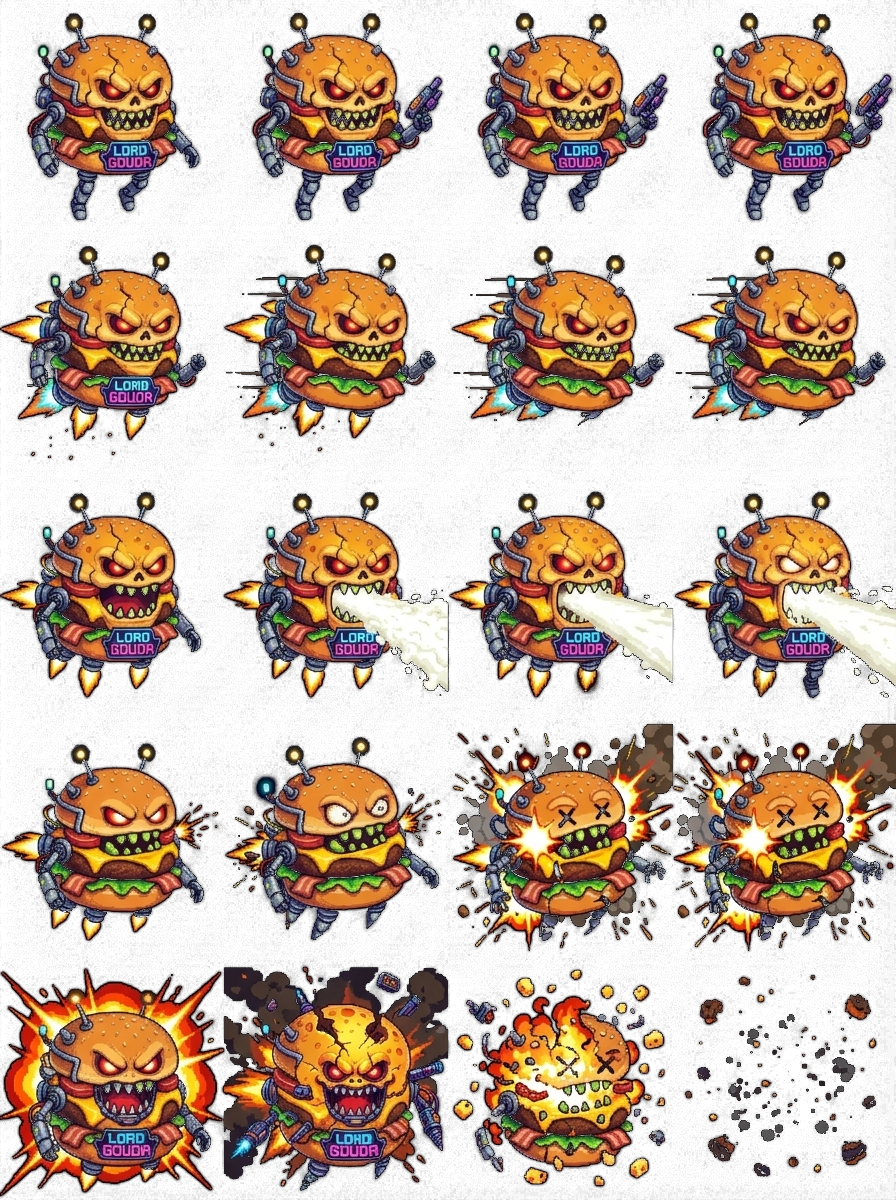
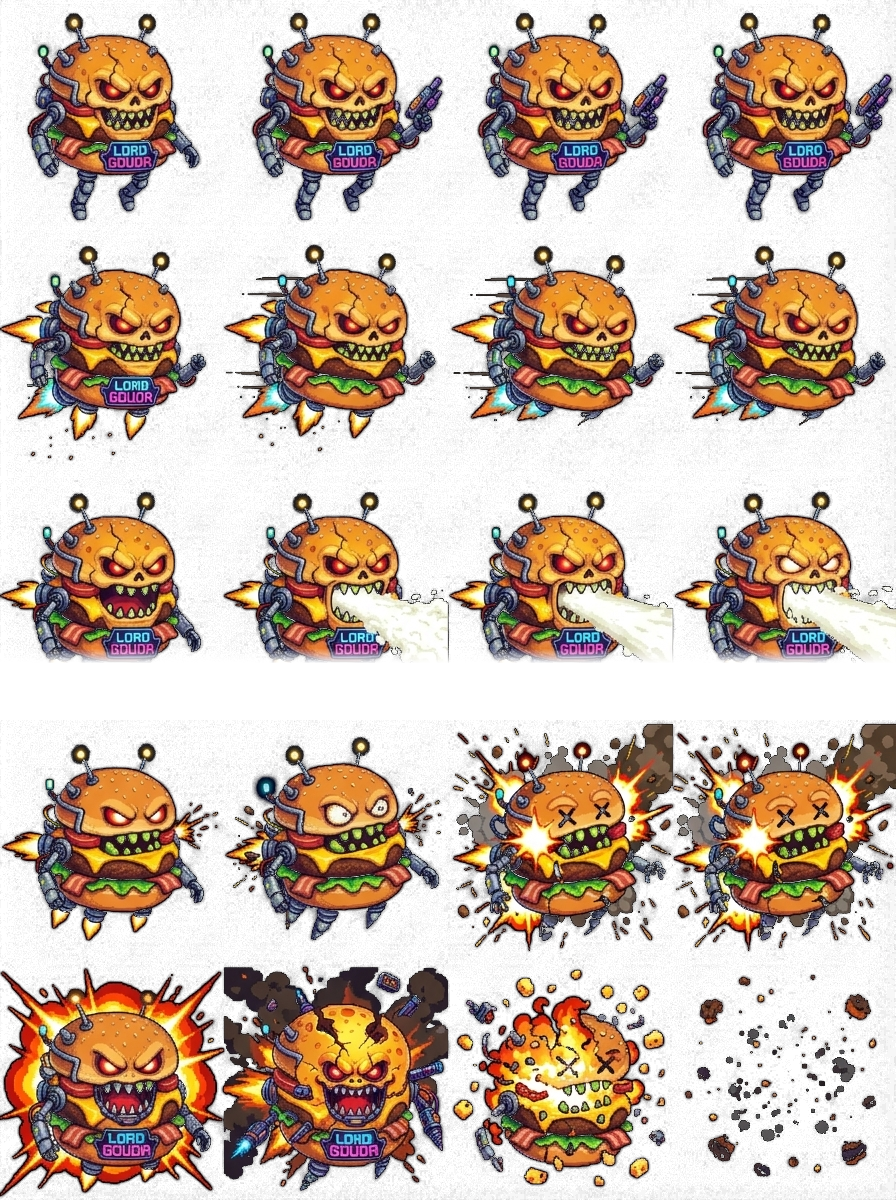
Erase baked laser from spritesheet and bump cache version

diff --git a/src/scenes/BootScene.js b/src/scenes/BootScene.js
@@ -87,7 +87,7 @@ export default class BootScene extends Phaser.Scene {
         this.load.spritesheet('enemy_protector_sheet','enemy_protector_sheet.png?v=6',{ frameWidth: FW, frameHeight: FH });
 
         // Boss Overhaul Sprites
-        this.load.spritesheet('boss_cheese', 'assets/boss_cheese.png?v=4', { frameWidth: 224, frameHeight: 240 });
+        this.load.spritesheet('boss_cheese', 'assets/boss_cheese.png?v=5', { frameWidth: 224, frameHeight: 240 });
         this.load.image('boss_cheese_portrait', 'assets/boss_cheese_portrait.png?v=1');
         this.load.image('boss_irs', 'assets/boss_irs.png?v=2');
         this.load.image('boss_vacuum', 'assets/boss_vacuum.png?v=2');
